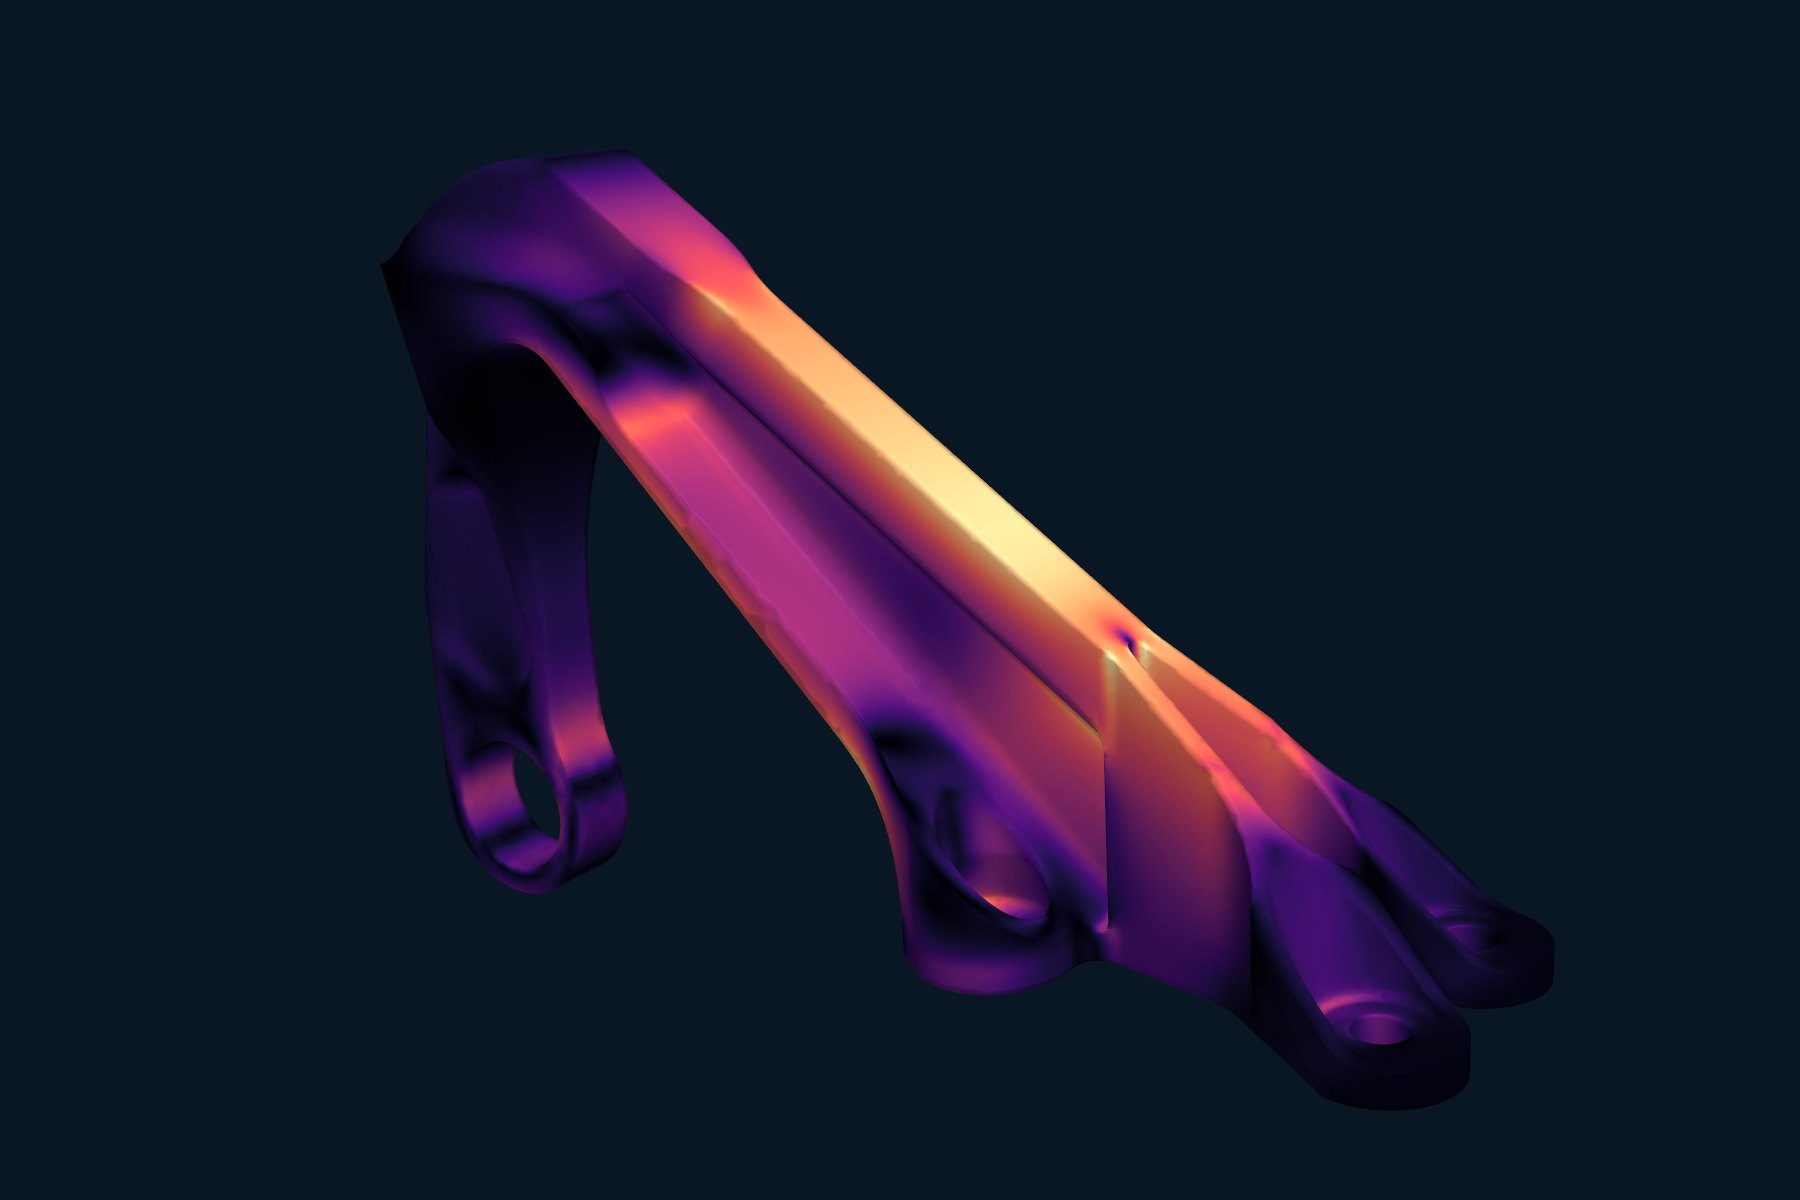
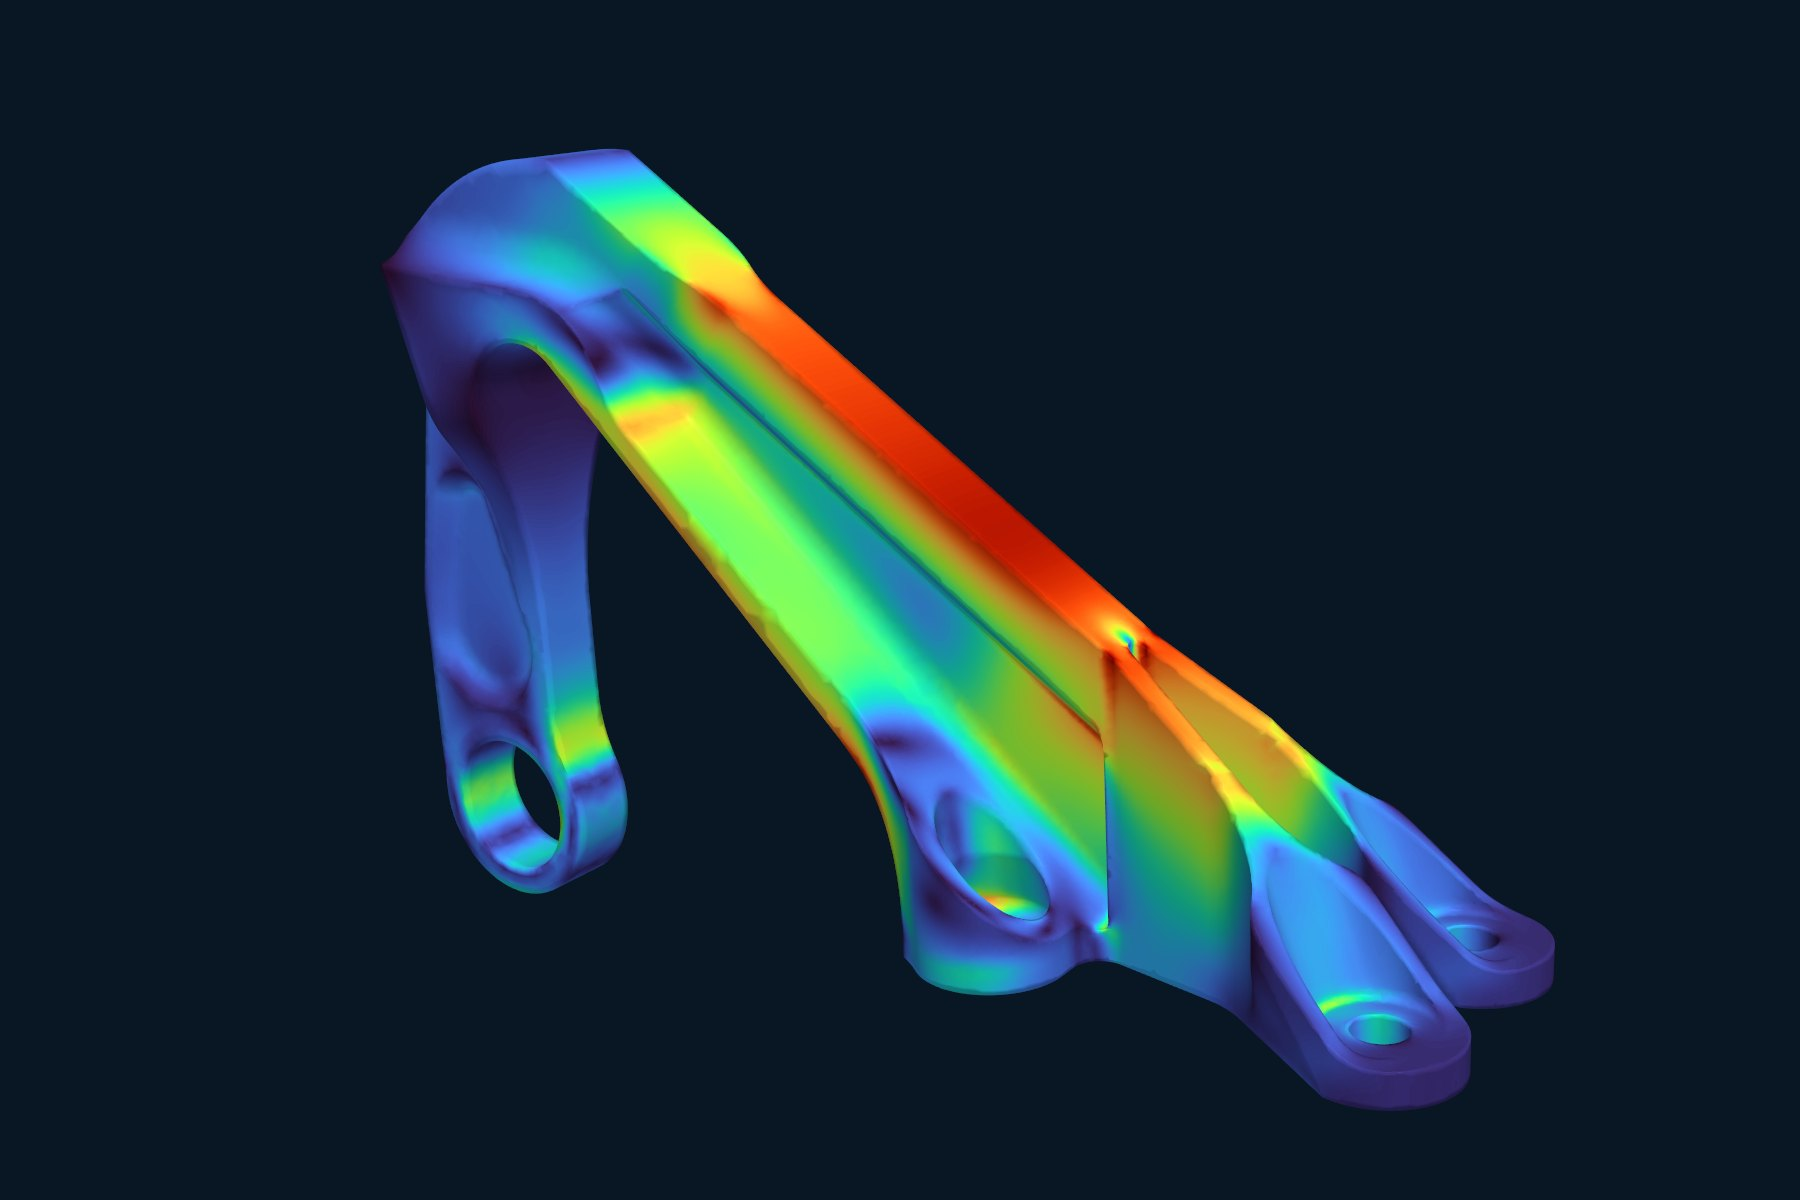
dark mode cmaps

Changed region(s): [[0.1867, 0.1233, 0.8711, 0.925]]

diff --git a/scripts/render_marketing_images.py b/scripts/render_marketing_images.py
@@ -220,6 +220,7 @@ def render_pump_bracket(theme: RenderTheme) -> None:
     scalar_name = 'disp_6_magnitude'
     mode_values = np.linalg.norm(dataset[mode_shape], axis=1)
     scalar_limit = float(mode_values.max()) * 0.05
+    cmap = 'coolwarm_r' if theme.name == 'dark' else 'coolwarm'
 
     plotter = new_plotter(background=theme.surface_background)
     plotter.camera_position = pv.CameraPosition(
@@ -243,7 +244,7 @@ def render_pump_bracket(theme: RenderTheme) -> None:
         animated_actor = plotter.add_mesh(
             warped,
             scalars=scalar_name,
-            cmap='coolwarm',
+            cmap=cmap,
             clim=(-scalar_limit, scalar_limit),
             ambient=0.22,
             specular=0.1,
@@ -264,7 +265,7 @@ def render_aero_bracket(theme: RenderTheme) -> None:
     """Render the static aero bracket FEA result shown beside the code snippet."""
     mesh = examples.download_aero_bracket()
     scalar_name = 'von Mises stress'
-    cmap = 'magma' if theme.name == 'dark' else 'cividis'
+    cmap = 'turbo' if theme.name == 'dark' else 'cividis'
 
     plotter = new_plotter(background=theme.surface_background)
     plotter.add_mesh(
@@ -290,7 +291,7 @@ def render_cfd_data(theme: RenderTheme) -> None:
     block = examples.download_openfoam_tubes()
     air = block[0]
     inlet = block[1][2]
-    cmap = 'magma' if theme.name == 'dark' else 'cividis'
+    cmap = 'turbo' if theme.name == 'dark' else 'cividis'
 
     pset = pv.PointSet(inlet.points[::20])
     lines = air.streamlines_from_source(pset, vectors='U', max_length=1.0).compute_arc_length()
